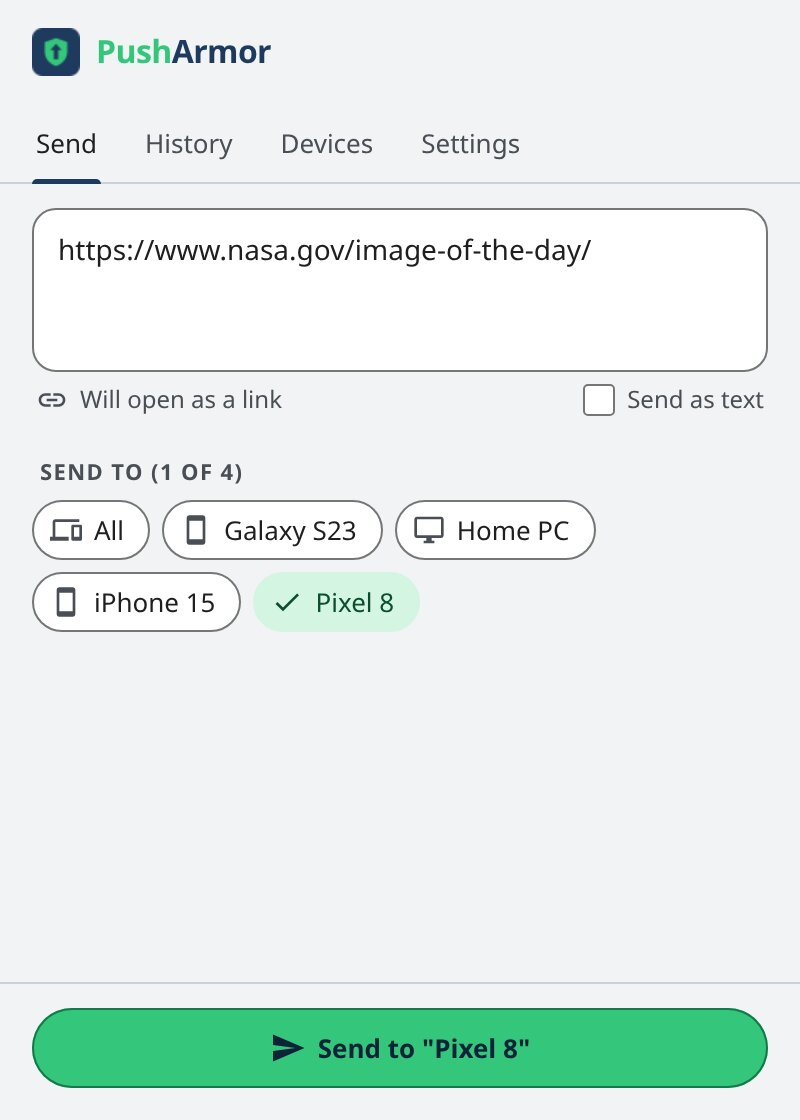
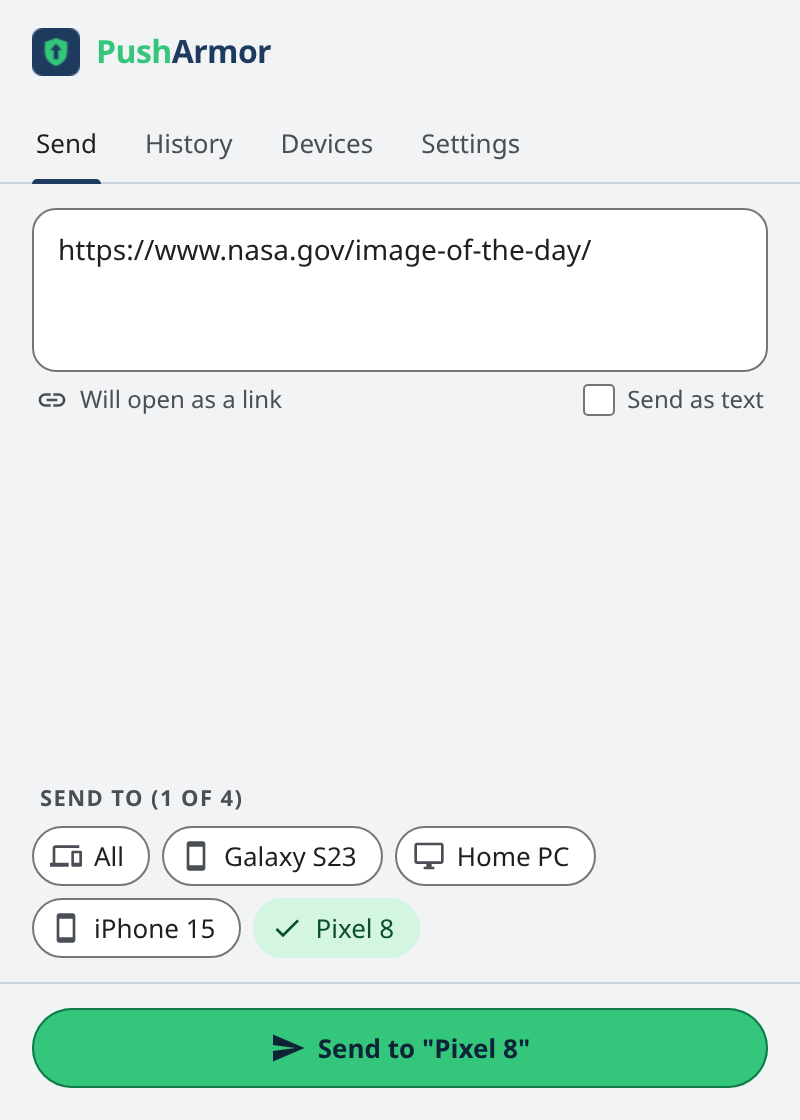
webext: Send device chips sit at the bottom, just above the Send button, like iOS
The free space sits between the message and the chips in the popup and
the full tab page. About page Chrome and Firefox Send screenshots updated.

diff --git a/client/webext-common/src/ui/popup.ts b/client/webext-common/src/ui/popup.ts
@@ -304,7 +304,8 @@ export async function sendView(env: UiEnv, root: HTMLElement, st: StateView, pre
   // every device is greyed: say why Send is off
   const none = !sendable.length && chips.childElementCount ? h("p", { class: "dim nosend" }, "No device can receive messages right now.") : null;
   const noPair = nav && !data.peers.some((p) => p.paired) ? cta("Pair your first device to start sending.", "Pair a device", nav.toDevices) : null;
-  root.append(head, chips, ...(none ? [none] : []), ...(noPair ? [noPair] : []), h("div", { class: "grow" }), h("div", { class: "foot send-foot" }, sendBtn));
+  // Like iOS: the free space sits under the field, so the chips sit just above Send.
+  root.append(h("div", { class: "grow" }), head, chips, ...(none ? [none] : []), ...(noPair ? [noPair] : []), h("div", { class: "foot send-foot" }, sendBtn));
   relabel();
   await update();
 }

diff --git a/client/webext-common/src/ui/style.css b/client/webext-common/src/ui/style.css
@@ -184,7 +184,7 @@ body.page .foot { position: static; }
 .caption svg { flex: none; }
 .astext { display: inline-flex; align-items: center; gap: 6px; font-size: 12px; line-height: 16px; color: var(--ink2); cursor: pointer; }
 .astext[hidden] { display: none; }
-.dchips { display: flex; flex-wrap: wrap; gap: 6px; padding: 0 16px; }
+.dchips { display: flex; flex-wrap: wrap; gap: 6px; padding: 0 16px 12px; }
 .nosend { margin: 8px 16px 0; }
 .chip.dchip { height: 30px; padding: 0 12px 0 8px; gap: 6px; background: var(--card); border-color: var(--ctl); color: var(--ink); font-size: 13px; font-weight: 500; }
 .chip.dchip:hover { background: var(--s1); }

diff --git a/client/webext-common/test/ui.test.ts b/client/webext-common/test/ui.test.ts
@@ -571,3 +571,9 @@ test("overflow menu opens upward only when it does not fit below and above has m
   assert.deepEqual(menuFit(500, 120.7, 200.4), { up: true, maxH: 200 });
   assert.deepEqual(menuFit(100, -5, -10), { up: false, maxH: 0 });
 });
+
+test("Send: the free space sits under the field, so the device chips sit just above Send (like iOS)", async () => {
+  const { readFileSync } = await import("node:fs");
+  const pop = readFileSync(new URL("../src/ui/popup.ts", import.meta.url), "utf8");
+  assert.match(pop, /root\.append\(h\("div", \{ class: "grow" \}\), head, chips, [^\n]*h\("div", \{ class: "foot send-foot" \}, sendBtn\)\);/);
+});
